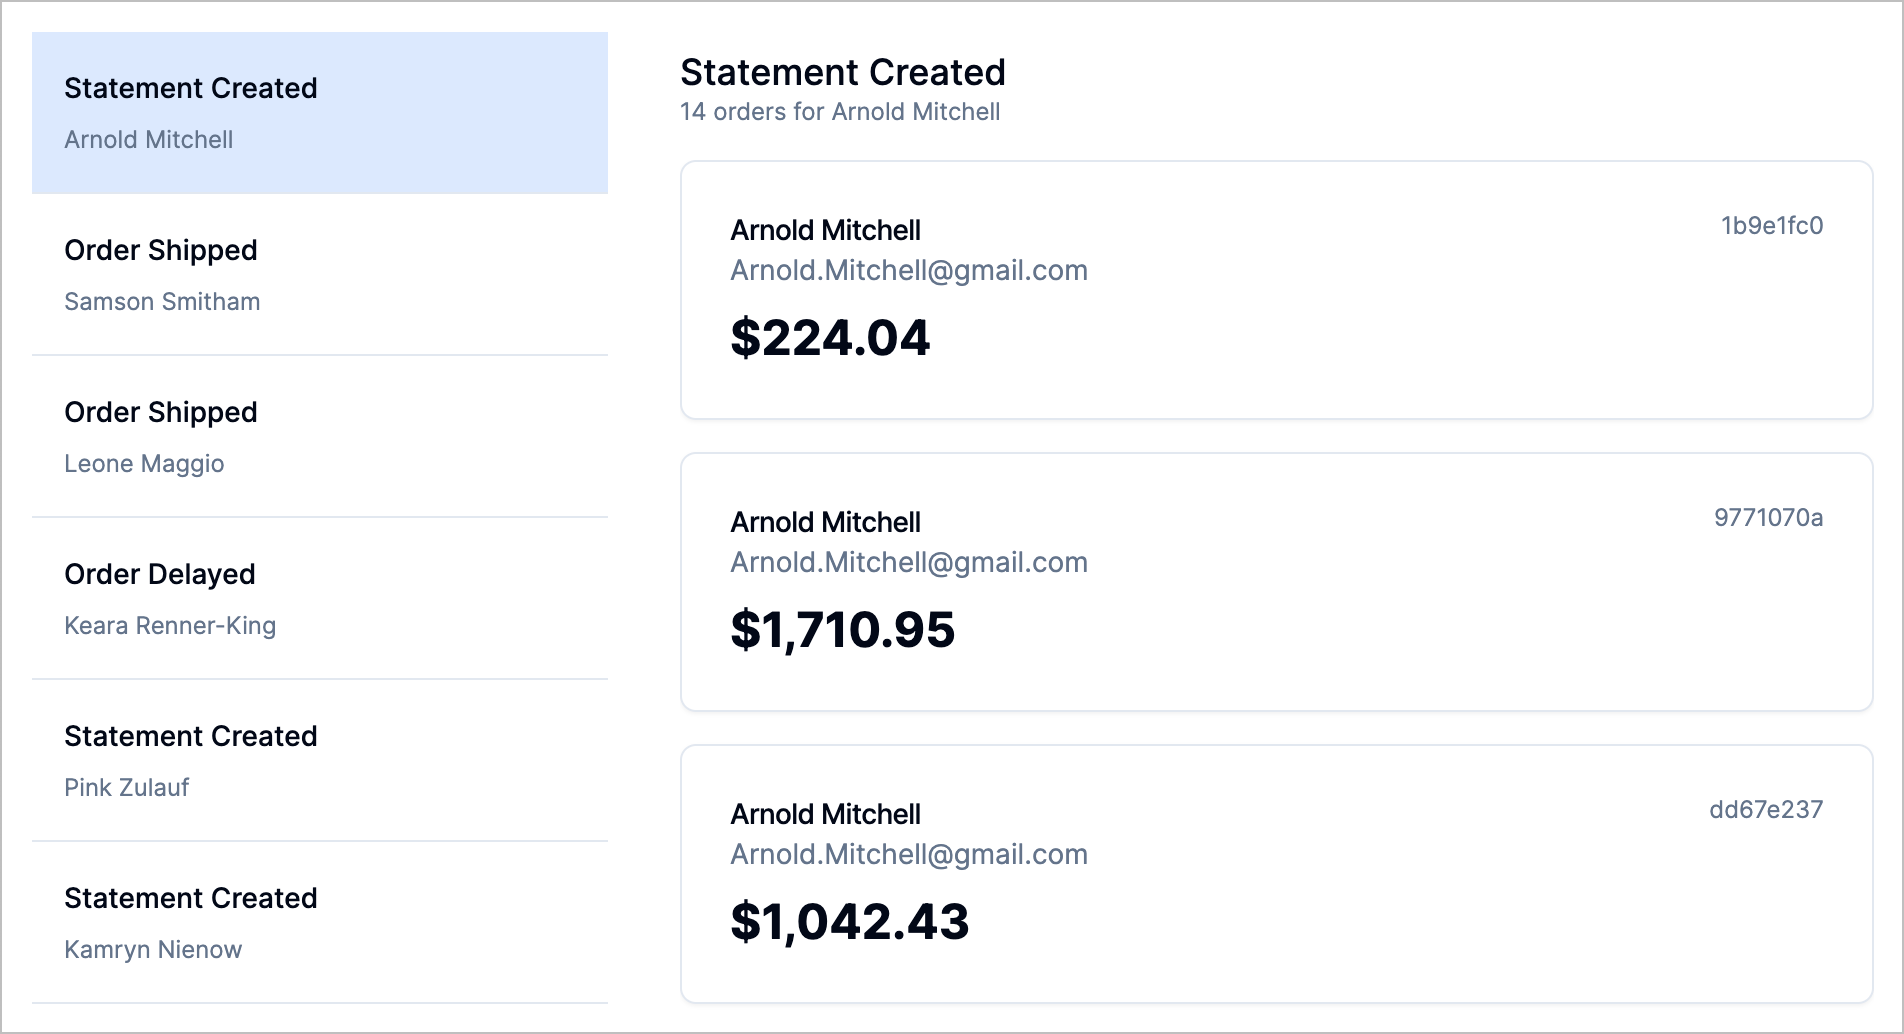
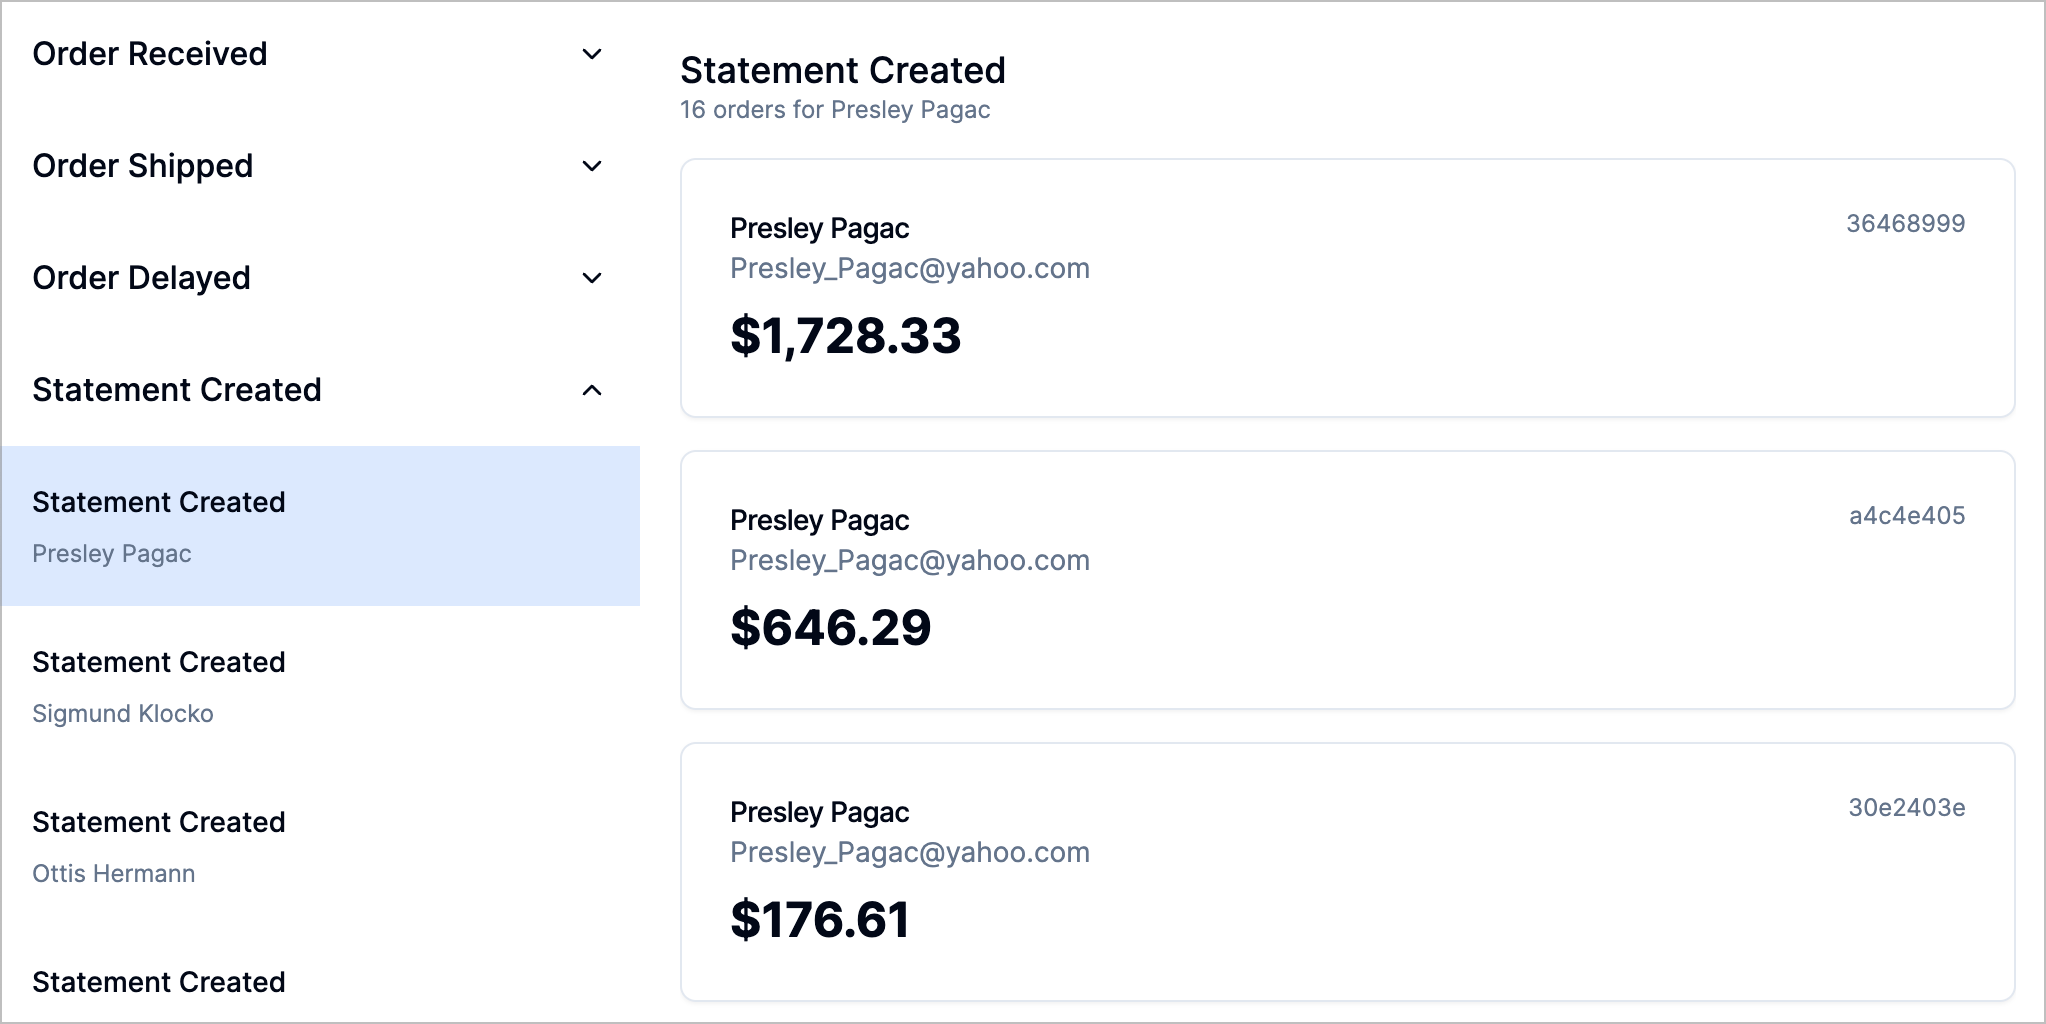
implement sticky headers in AlertList

diff --git a/src/app/alerts/_components/AlertList/AlertList.tsx b/src/app/alerts/_components/AlertList/AlertList.tsx
@@ -2,12 +2,19 @@
 
 import { OrderEventItem } from './OrderEventItem';
 import { StatementEventItem } from './StatementEventItem';
+import {
+  Accordion,
+  AccordionContent,
+  AccordionItem,
+  AccordionTrigger,
+} from '@/components/ui/accordion';
 import { graphql } from '@/generated/gql';
 import { AlertType } from '@/generated/gql/graphql';
 import type { AlertSortAndGroupPartial } from '@/models';
 import { sortAndGroupAlerts } from '@/models';
 import { cn } from '@/lib/utils';
 import { useQuery } from '@apollo/client';
+import { capitalCase } from 'change-case';
 import Link from 'next/link';
 import { usePathname, useRouter } from 'next/navigation';
 import * as React from 'react';
@@ -78,42 +85,63 @@ export function AlertList() {
     alerts as AlertSortAndGroupPartial[],
   ) as GroupedAlerts[];
 
+  /*
+   * The structure under AccordionItem is to make sure that accordion headers
+   * an accordion content are peers. This is required for the sticky headers
+   * to work correctly (position: sticky).
+   */
   return (
-    <div className="p-4 w-80 shrink-0 overflow-auto">
-      <ul role="list">
-        {groupedAlerts.map(({ alertType, alerts }) => {
-          return alerts !== undefined ? (
-            <li key={alertType}>
-              <h2>{alertType}</h2>
-              <ul className="divide-y divide-border">
-                {alerts.map((alert) => {
-                  const { event } = alert;
-                  const selected = alert.id === selectedAlertId;
-                  return (
-                    <li
-                      key={alert.id}
-                      data-id={alert.id}
-                      className={cn(
-                        'px-4 py-4 hover:bg-accent',
-                        selected && 'bg-selected',
-                      )}
-                    >
-                      <Link href={`/alerts/${alert.id}`}>
-                        {event.__typename === 'OrderEvent' && (
-                          <OrderEventItem event={event} />
-                        )}
-                        {event.__typename === 'StatementEvent' && (
-                          <StatementEventItem event={event} />
-                        )}
-                      </Link>
+    <div className="bg-background w-80 shrink-0 overflow-auto">
+      <Accordion
+        type="multiple"
+        defaultValue={groupedAlerts.map((group) => group.alertType)}
+        asChild
+      >
+        <ul>
+          {groupedAlerts.map(({ alertType, alerts }) => {
+            return alerts !== undefined ? (
+              <AccordionItem value={alertType} asChild>
+                <>
+                  <li className="bg-background sticky top-0 z-10">
+                    <AccordionTrigger className="px-4 py-4">
+                      {capitalCase(alertType)}
+                    </AccordionTrigger>
+                  </li>
+                  <AccordionContent asChild>
+                    <li>
+                      <ul>
+                        {alerts.map((alert) => {
+                          const { event } = alert;
+                          const selected = alert.id === selectedAlertId;
+                          return (
+                            <li
+                              key={alert.id}
+                              data-id={alert.id}
+                              className={cn(
+                                'px-4 py-4 hover:bg-accent',
+                                selected && 'bg-selected',
+                              )}
+                            >
+                              <Link href={`/alerts/${alert.id}`}>
+                                {event.__typename === 'OrderEvent' && (
+                                  <OrderEventItem event={event} />
+                                )}
+                                {event.__typename === 'StatementEvent' && (
+                                  <StatementEventItem event={event} />
+                                )}
+                              </Link>
+                            </li>
+                          );
+                        })}
+                      </ul>
                     </li>
-                  );
-                })}
-              </ul>
-            </li>
-          ) : undefined;
-        })}
-      </ul>
+                  </AccordionContent>
+                </>
+              </AccordionItem>
+            ) : undefined;
+          })}
+        </ul>
+      </Accordion>
     </div>
   );
 }

diff --git a/src/components/ui/accordion.tsx b/src/components/ui/accordion.tsx
@@ -1,0 +1,58 @@
+'use client';
+
+import * as React from 'react';
+import * as AccordionPrimitive from '@radix-ui/react-accordion';
+import { ChevronDown } from 'lucide-react';
+
+import { cn } from '@/lib/utils';
+
+const Accordion = AccordionPrimitive.Root;
+
+const AccordionItem = React.forwardRef<
+  React.ElementRef<typeof AccordionPrimitive.Item>,
+  React.ComponentPropsWithoutRef<typeof AccordionPrimitive.Item>
+>(({ className, ...props }, ref) => (
+  <AccordionPrimitive.Item
+    ref={ref}
+    className={cn('border-b', className)}
+    {...props}
+  />
+));
+AccordionItem.displayName = 'AccordionItem';
+
+const AccordionTrigger = React.forwardRef<
+  React.ElementRef<typeof AccordionPrimitive.Trigger>,
+  React.ComponentPropsWithoutRef<typeof AccordionPrimitive.Trigger>
+>(({ className, children, ...props }, ref) => (
+  <AccordionPrimitive.Header className="flex">
+    <AccordionPrimitive.Trigger
+      ref={ref}
+      className={cn(
+        'flex flex-1 items-center justify-between py-4 font-medium transition-all [&[data-state=open]>svg]:rotate-180',
+        className,
+      )}
+      {...props}
+    >
+      {children}
+      <ChevronDown className="h-4 w-4 shrink-0 transition-transform duration-200" />
+    </AccordionPrimitive.Trigger>
+  </AccordionPrimitive.Header>
+));
+AccordionTrigger.displayName = AccordionPrimitive.Trigger.displayName;
+
+const AccordionContent = React.forwardRef<
+  React.ElementRef<typeof AccordionPrimitive.Content>,
+  React.ComponentPropsWithoutRef<typeof AccordionPrimitive.Content>
+>(({ className, children, ...props }, ref) => (
+  <AccordionPrimitive.Content
+    ref={ref}
+    className="overflow-hidden text-sm transition-all data-[state=closed]:animate-accordion-up data-[state=open]:animate-accordion-down"
+    {...props}
+  >
+    {children}
+  </AccordionPrimitive.Content>
+));
+
+AccordionContent.displayName = AccordionPrimitive.Content.displayName;
+
+export { Accordion, AccordionItem, AccordionTrigger, AccordionContent };

diff --git a/tailwind.config.ts b/tailwind.config.ts
@@ -76,4 +76,5 @@ const config: Config = {
   },
   plugins: [require('tailwindcss-animate')],
 };
+
 export default config;
